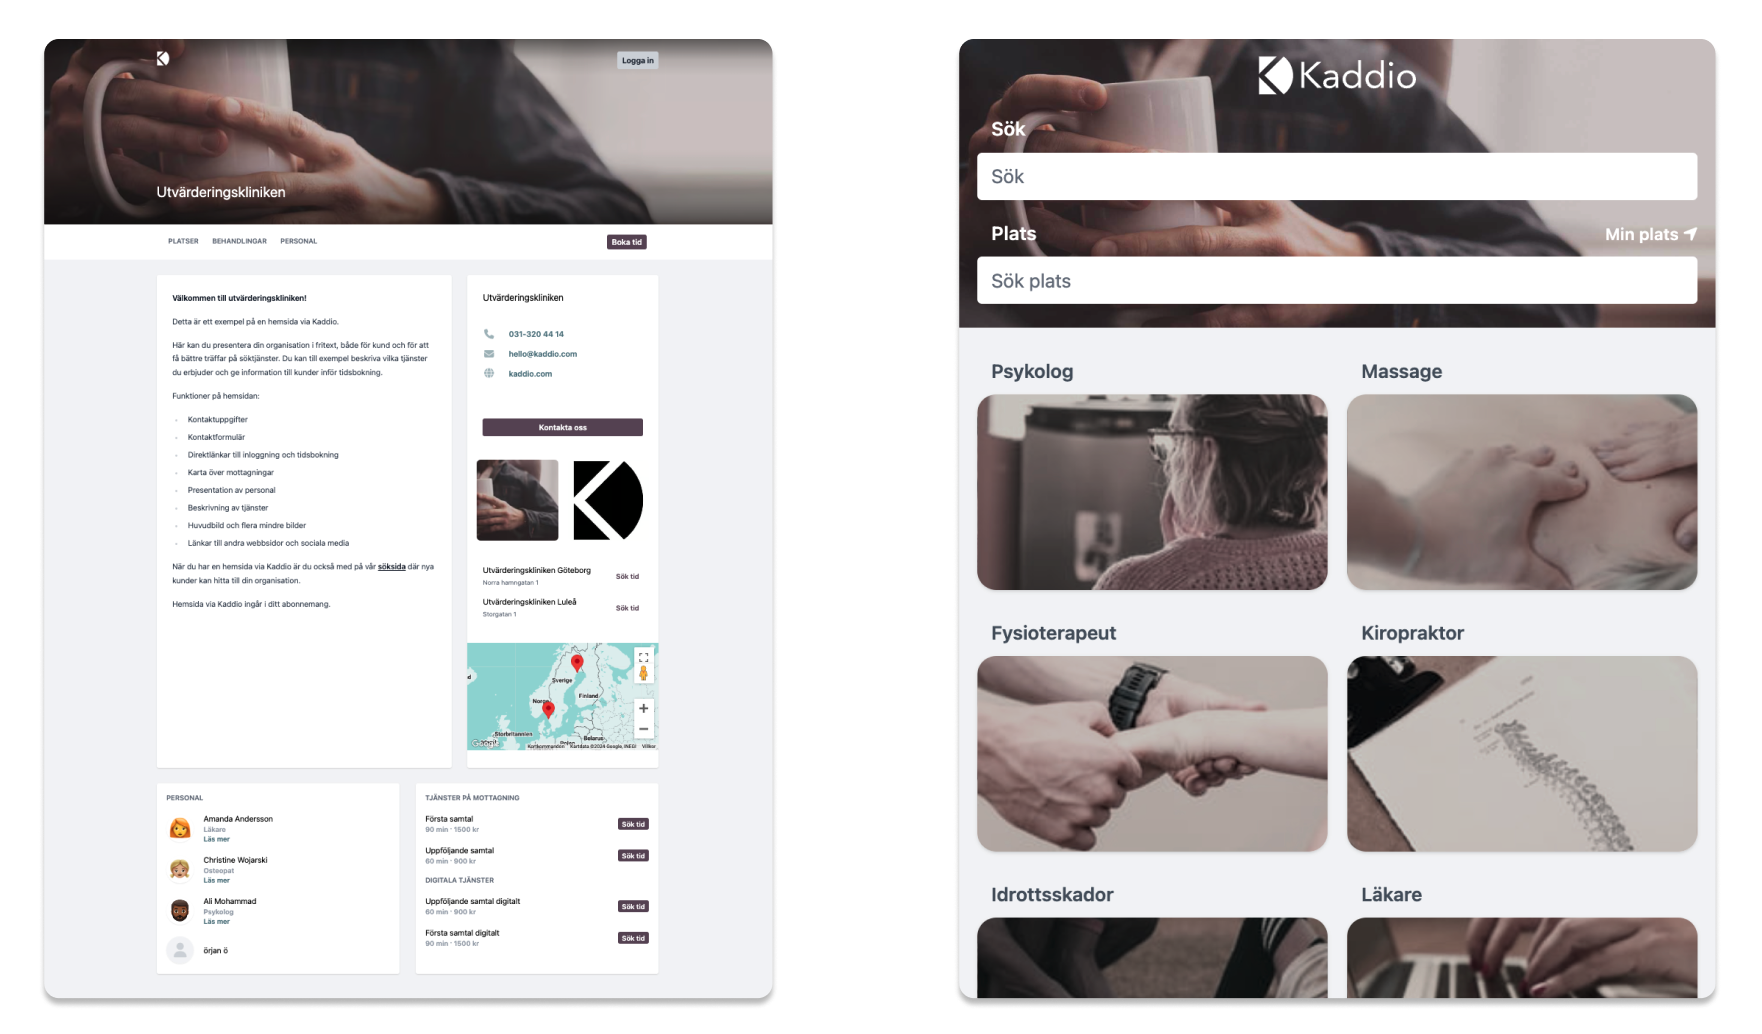
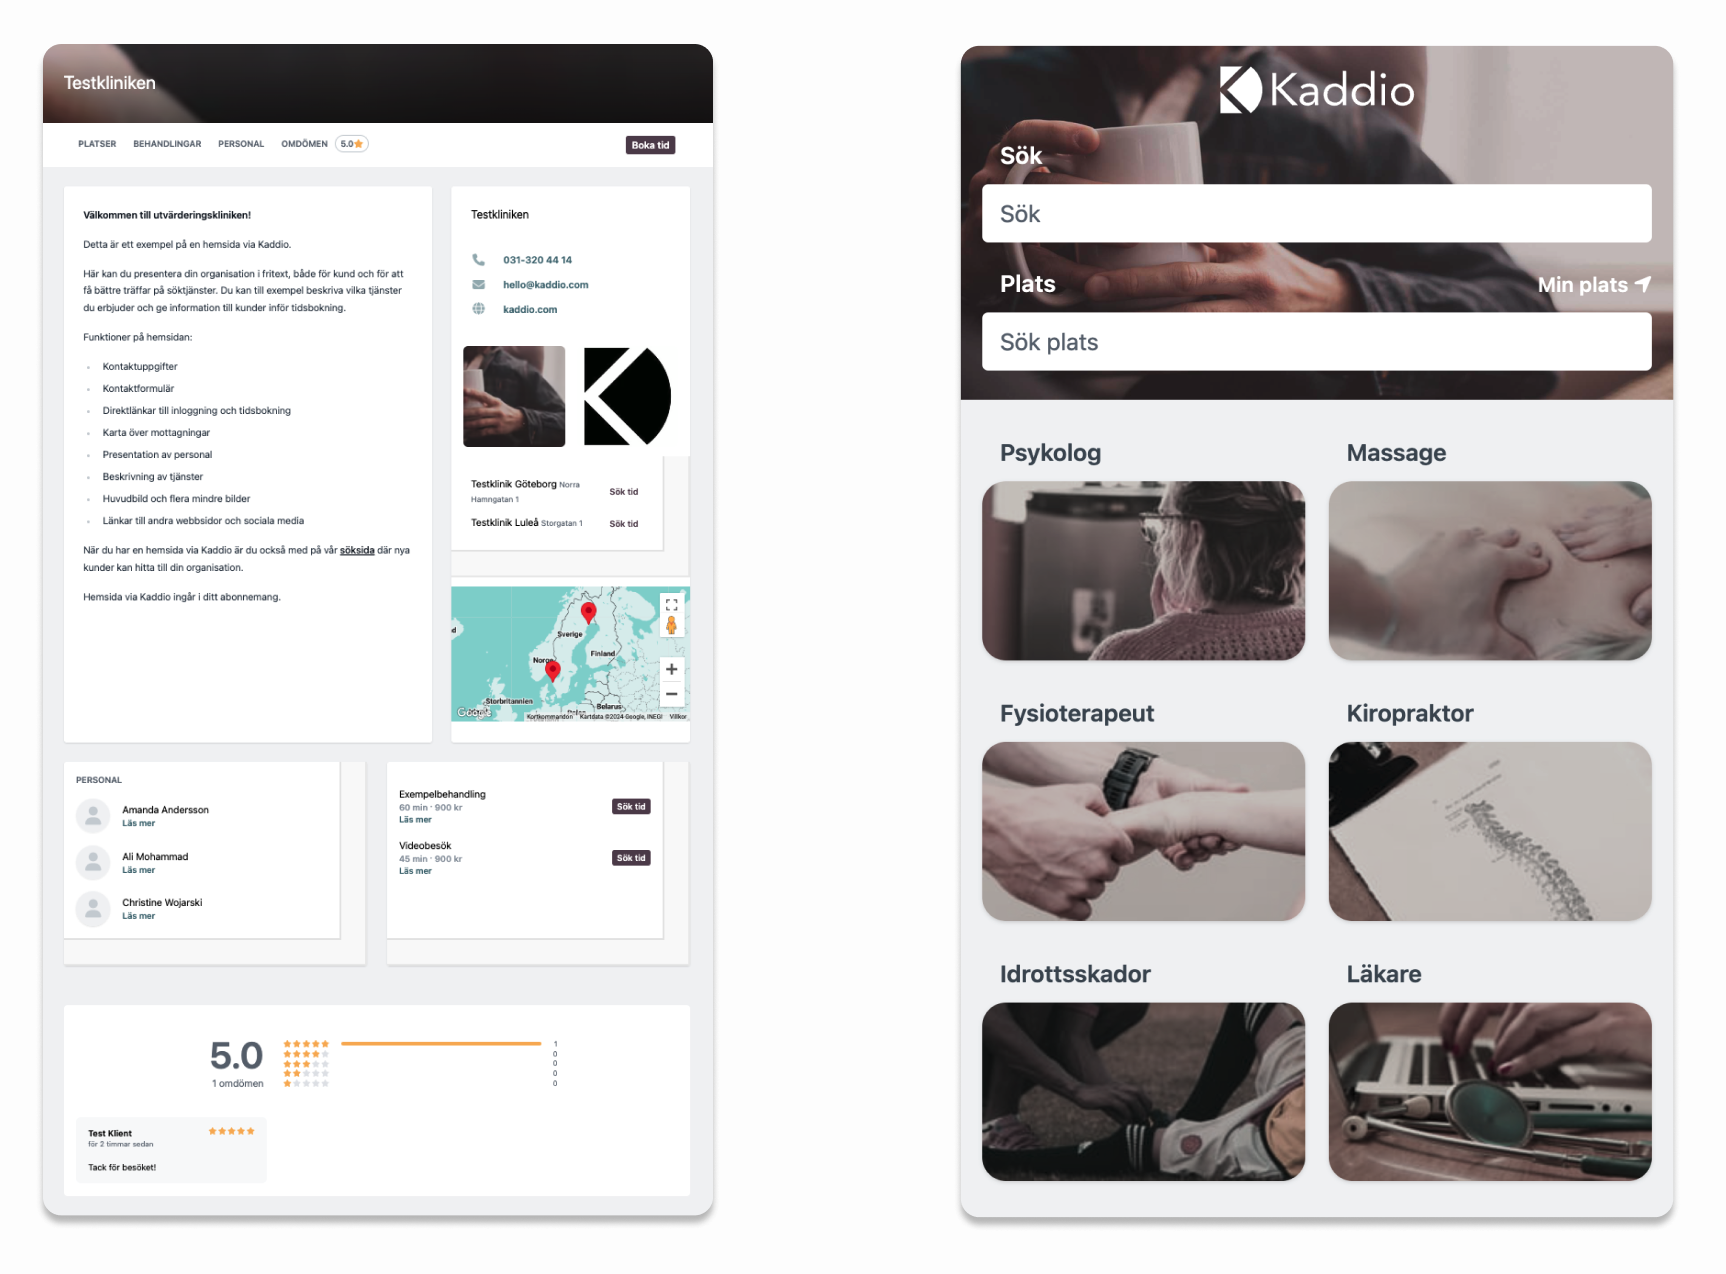
new-marketing-img

diff --git a/web/src/routes/(hp)/sv/(feature)/marketing/+page.svelte b/web/src/routes/(hp)/sv/(feature)/marketing/+page.svelte
@@ -24,7 +24,7 @@
 	<meta name="description" content="Kaddio Marknadsföring." />
 </svelte:head>
 
-<ModuleSectionWithImage src="/img/kaddio-screenshots/" alt="Kaddio Marknadsföring">
+<ModuleSectionWithImage src="/img/kaddio-screenshots/marketing-se.png" alt="Kaddio Marknadsföring">
 	<span slot="h1">Visa upp din verksamhet</span>
 	<span slot="title">Kaddio Marknadsföring</span>
 	<span slot="sub">
